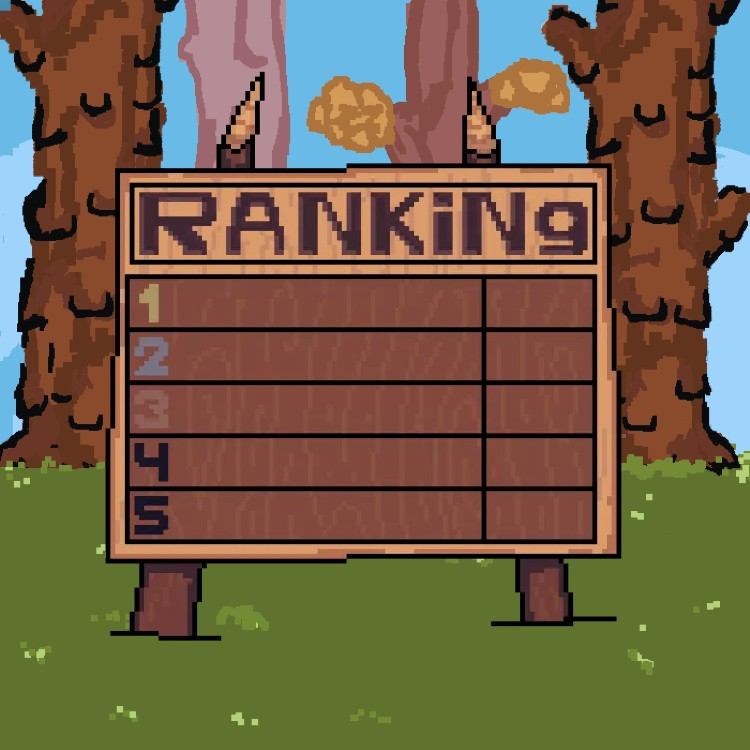
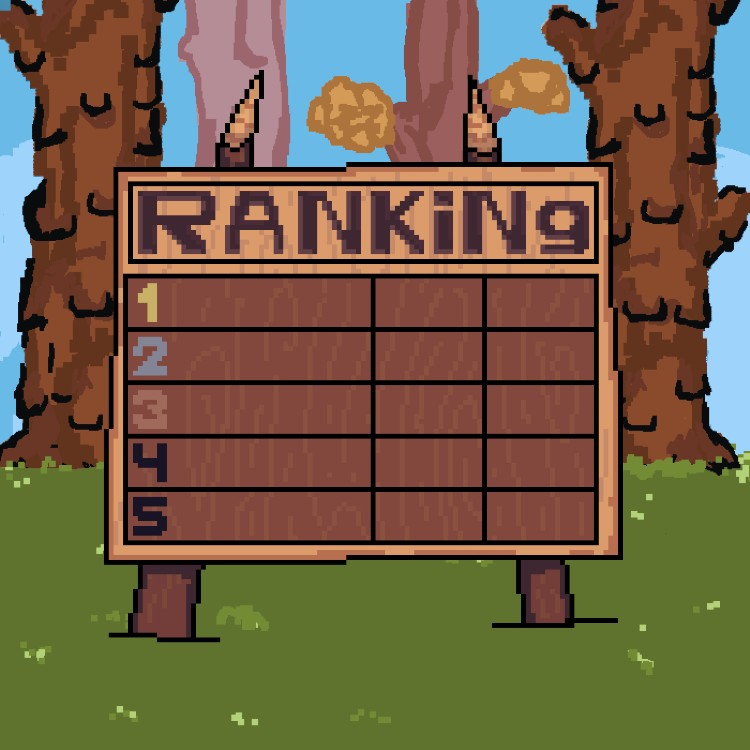
ta certo, mas o bug arrombou meu pc

Changed region(s): [[0.1227, 0.092, 0.8587, 0.8587], [0.6133, 0.644, 0.6747, 0.6747]]

diff --git a/Pontuacao.java b/Pontuacao.java
@@ -19,6 +19,7 @@ public class Pontuacao extends World
         // Cria um novo mundo com 750x750 células com um tamanho de célula de 1x1px.
         super(750, 750, 1);
         showText("Aperte ENTER para voltar ao Jogo", 375, 700);
+        showText("Aperte J para acessar o Tutorial", 375, 720);
     }
 
     public void act()
@@ -32,17 +33,20 @@ public class Pontuacao extends World
         for (int i = 0; i < tamanho; i++)
         {
             // verifica o tamanho do nome, se passar de 20 caracteres, corta e coloca "..."
-            if (HistoricoPontuacao.consultarNomeJogadorPorId(i).length() > 20)
+            if (HistoricoPontuacao.consultarNomeJogadorPorId(i).length() > 10)
             {
-                showText(HistoricoPontuacao.consultarNomeJogadorPorId(i).substring(0, 19) + "...", 310, 300 + (i * 55));
+                showText(HistoricoPontuacao.consultarNomeJogadorPorId(i).substring(0, 10) + "...", 260, 300 + (i * 55));
             }
             else
             {
-                showText(HistoricoPontuacao.consultarNomeJogadorPorId(i), 310, 300 + (i * 55));
+                showText(HistoricoPontuacao.consultarNomeJogadorPorId(i), 260, 300 + (i * 55));
             }
             
+            // mostra o tempo em segundos
+            showText(Integer.toString(HistoricoPontuacao.consultarTempoJogadorPorId(i) / 60) + "s", 425, 300 + (i * 55));
+
             // mostra cada pontuação em uma linha
-            showText(Integer.toString(HistoricoPontuacao.consultarPontuacaoJogadorPorId(i)), 539, 300 + (i * 55));
+            showText(Integer.toString(HistoricoPontuacao.consultarPontuacaoJogadorPorId(i)), 540, 300 + (i * 55));
         }
 
         if (Greenfoot.isKeyDown("enter"))
@@ -50,5 +54,9 @@ public class Pontuacao extends World
             Greenfoot.setWorld(new MeuMundo());
         }
 
+        if (Greenfoot.isKeyDown("j"))
+        {
+            Greenfoot.setWorld(new TutorialWorld());
+        }
     }
 }

diff --git a/TutorialWorld.java b/TutorialWorld.java
@@ -17,12 +17,12 @@ public class TutorialWorld extends World
     {    
         // Create a new world with 600x400 cells with a cell size of 1x1 pixels.
         super(750, 750, 1); 
-        showText("Pressione ENTER para voltar", 375, 725);
+        showText("Pressione ENTER para começar a jogar", 375, 725);
     }
 
     public void checkKeyPress() {
         if (Greenfoot.isKeyDown("enter") || Greenfoot.isKeyDown("space") || Greenfoot.mouseClicked(null)) {
-            Greenfoot.setWorld(new StartWorld()); // volta para a tela de start
+            Greenfoot.setWorld(new MeuMundo()); // volta para a tela de start
         }
     }
 
@@ -31,7 +31,7 @@ public class TutorialWorld extends World
     {
         if (Greenfoot.isKeyDown("enter"))
         {
-            StartWorld menu = new StartWorld();
+            MeuMundo menu = new MeuMundo();
             Greenfoot.setWorld(menu);
             checkKeyPress();
         }

diff --git a/Lenhador.java b/Lenhador.java
@@ -14,6 +14,9 @@ public class Lenhador extends Actor {
     private Arvore arvore;
     private MeuMundo mundo;
     
+    private int tempoDeVida;
+    private int indiceJogador = HistoricoPontuacao.obterTamanho() - 1;
+    
     /**
      * Construtor da classe Lenhador
      */
@@ -23,6 +26,7 @@ public class Lenhador extends Actor {
         this.mundo=mundo;
         atacando=false;
         contAnimacao=0;
+        tempoDeVida = 0;
     }
 
     /**
@@ -31,7 +35,6 @@ public class Lenhador extends Actor {
      */
     public void act() 
     {
-        
         if(atacando)
         {
             if(getX() ==215)
@@ -60,6 +63,8 @@ public class Lenhador extends Actor {
                 }   
             }
         }
+
+        // HistoricoPontuacao.aumentaTempoJogadorPorId(indiceJogador);
     }
     
     private void acontecimentosEsquerda()

diff --git a/Jogador.java b/Jogador.java
@@ -4,10 +4,11 @@
  * @author (your name) 
  * @version (a version number or a date)
  */
-public class Jogador  
+public class Jogador
 {
     private String nome;
     private int pontuacao;
+    private int tempo;
 
     /**
      * Constructor for objects of class Jogador
@@ -16,6 +17,12 @@ public class Jogador
     {
         nome = "";
         pontuacao = 0;
+        tempo = 0;
+    }
+
+    public void aumentaTempo()
+    {
+        tempo++;
     }
 
     public String getNome()
@@ -36,5 +43,10 @@ public class Jogador
     public void setPontuacao(int pontuacao)
     {
         this.pontuacao = pontuacao;
+    }
+
+    public int getTempo()
+    {
+        return tempo;
     }
 }

diff --git a/HistoricoPontuacao.java b/HistoricoPontuacao.java
@@ -40,6 +40,16 @@ public class HistoricoPontuacao {
         return jogadores.get(id).getPontuacao();
     }
 
+    public static int consultarTempoJogadorPorId(int id) 
+    {
+        return jogadores.get(id).getTempo();
+    }
+
+    public static void aumentaTempoJogadorPorId(int id) 
+    {
+        jogadores.get(id).aumentaTempo();
+    }
+
     // função de ordernar unsado bubble sort
     private static void ordenarJogadores() 
     {

diff --git a/MundoDragao.java b/MundoDragao.java
@@ -33,9 +33,8 @@ public class MundoDragao extends World
         
         musica = new Musicas("musicaDragao.mp3",40);
         
-        this.score = HistoricoPontuacao.consultarPontuacaoJogadorPorId
-            (HistoricoPontuacao.obterTamanho()-1);
         this.jogador=HistoricoPontuacao.getUltimoJogador();
+        this.score = jogador.getPontuacao();
     }
     
     public void act()

diff --git a/MeuMundo.java b/MeuMundo.java
@@ -62,6 +62,7 @@ public class MeuMundo extends World {
         nome = "Anônimo";
 
         jogador.setNome(nome);
+        HistoricoPontuacao.adicionarJogador(jogador);
         
         musica = new Musicas("musicaArvore.mp3",30);
     }
